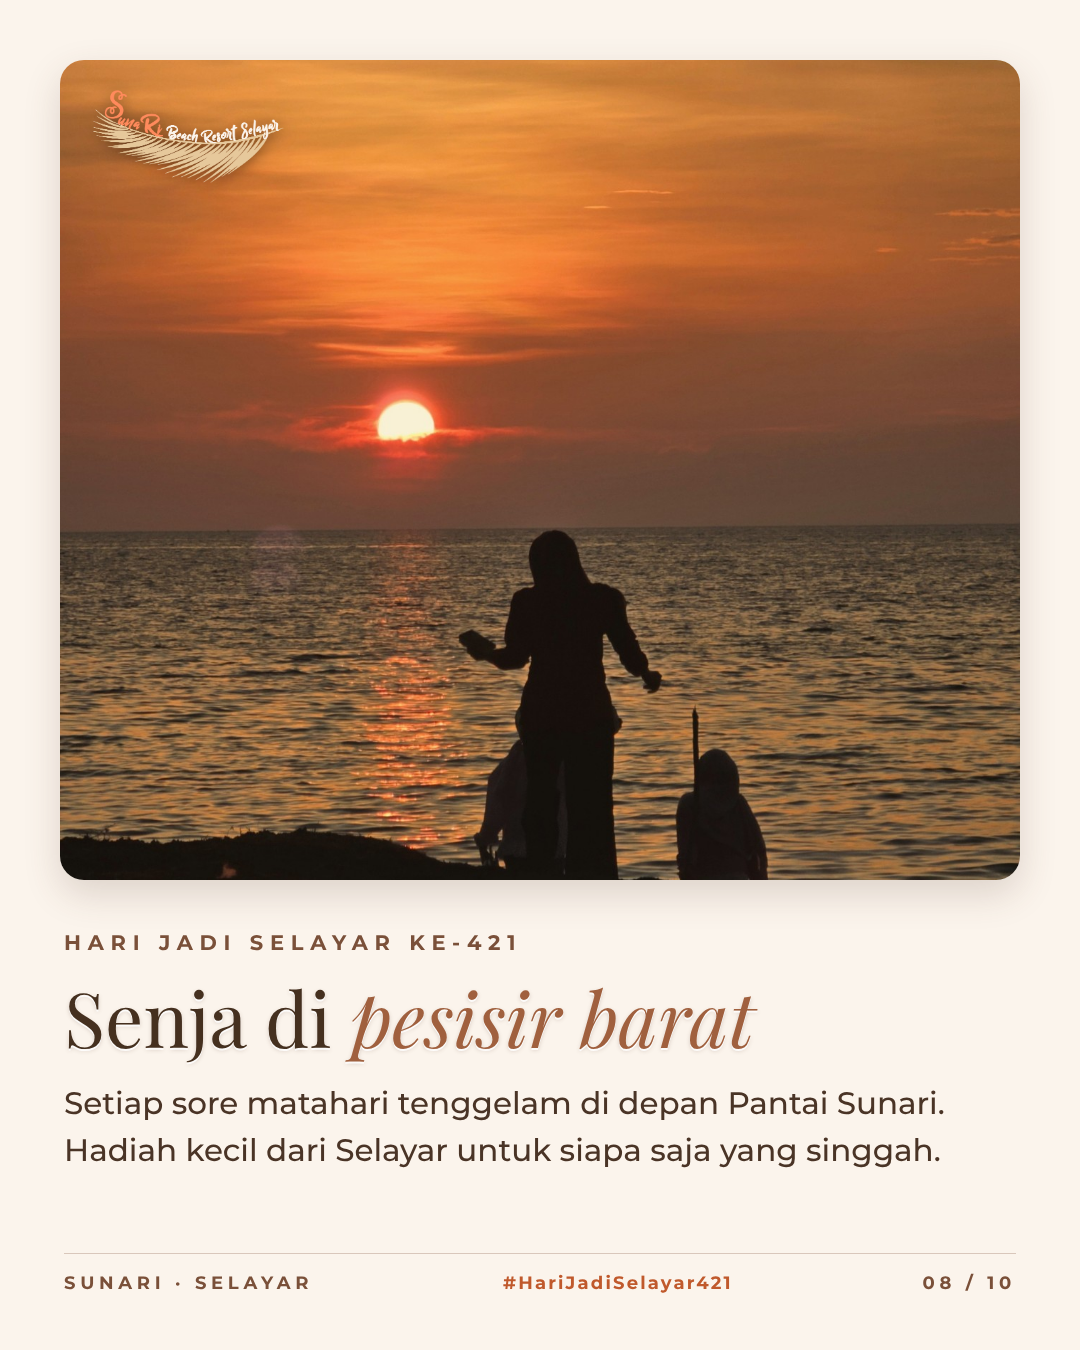
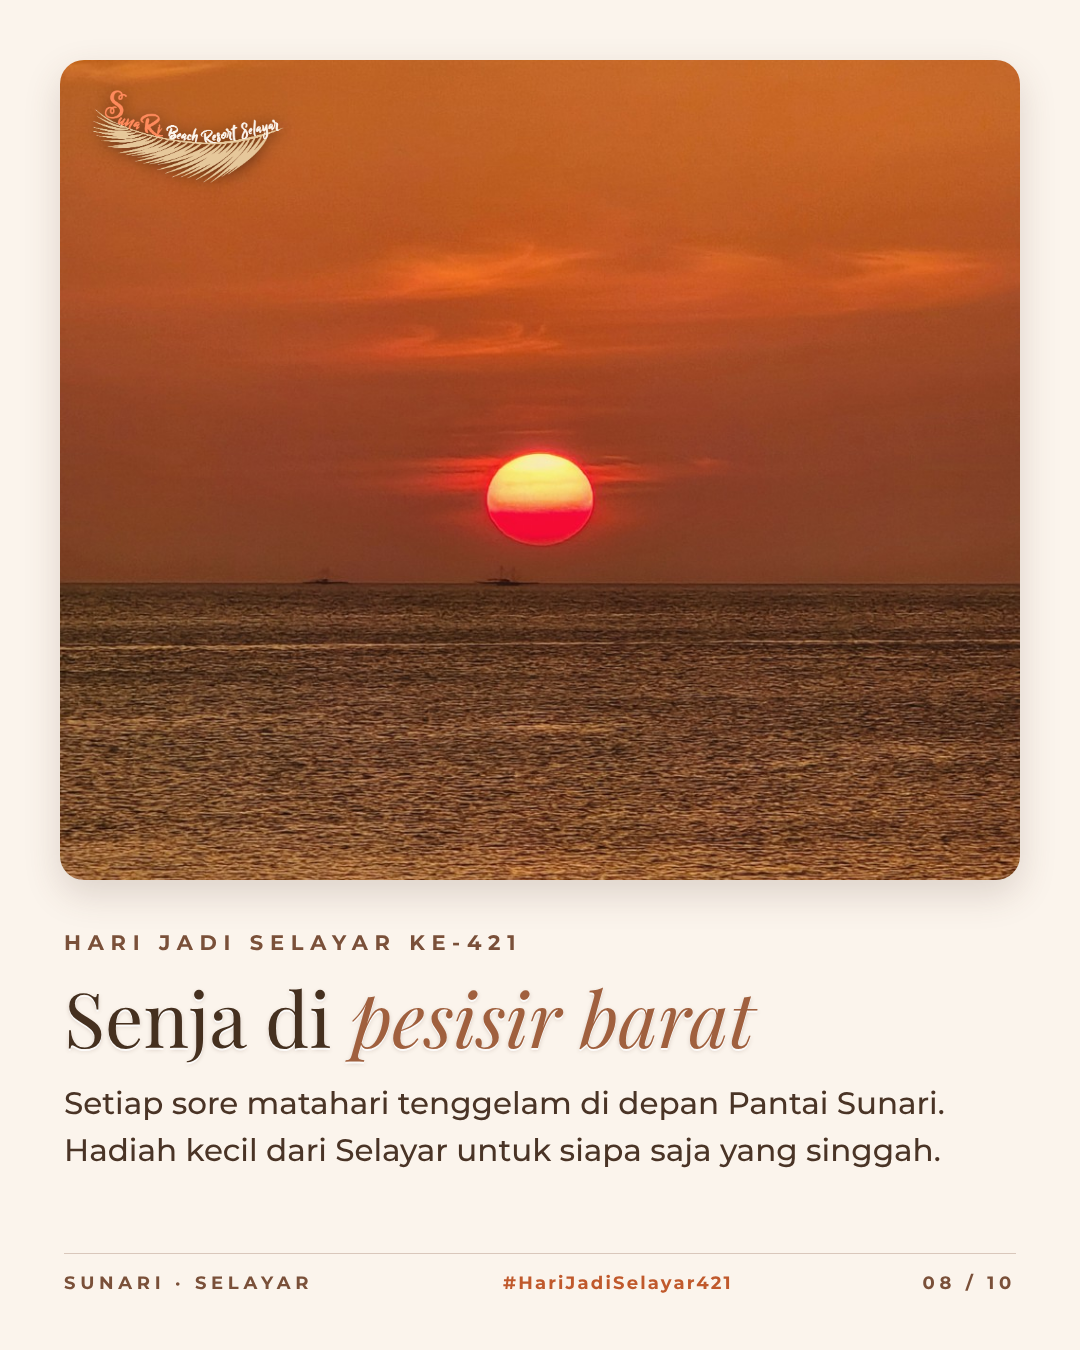
Feed Hari Jadi Selayar slide 8: foto matahari merah & dua perahu dari pemilik (grading SunaRi)
Claude-Session: https://claude.ai/code/session_01KeLc5eBGUnchV5ne3wvwHX

diff --git a/social/hari_jadi_feed.html b/social/hari_jadi_feed.html
@@ -50,7 +50,7 @@ body{background:#bbb;font-family:Montserrat,sans-serif}
   <div class="kick">Hari Jadi Selayar ke-421</div><div class="ttl emb">Pasir yang <em>muncul</em></div><div class="sub">Saat air surut, gosong pasir putih muncul di tengah laut. Keajaiban kecil dari pasang-surut Selayar.</div>
   <div class="bt"><span>SunaRi · Selayar</span><span class="h">#HariJadiSelayar421</span><span>06 / 10</span></div></div><div class="t" id="hari-jadi-07"><div class="ph"><img src="hari-jadi-selayar-feed/foto/bahuluang__47-dalam-gua-lipang-stalaktit-rombongan.jpg" style="object-position:50% 40%" alt=""><img class="lg" src="../assets/logo-sunari-color-dark.png" alt=""></div>
   <div class="kick">Hari Jadi Selayar ke-421</div><div class="ttl emb">Gua yang <em>dibentuk laut</em></div><div class="sub">Gua Lipang di Pulau Bahuluang: stalaktit menggantung, lantai pasir putih, sejuk di dalam.</div>
-  <div class="bt"><span>SunaRi · Selayar</span><span class="h">#HariJadiSelayar421</span><span>07 / 10</span></div></div><div class="t" id="hari-jadi-08"><div class="ph"><img src="hari-jadi-selayar-feed/foto/senja__21-siluet-tamu-tepi-pantai.jpg" style="object-position:50% 55%" alt=""><img class="lg" src="../assets/logo-sunari-color-dark.png" alt=""></div>
+  <div class="bt"><span>SunaRi · Selayar</span><span class="h">#HariJadiSelayar421</span><span>07 / 10</span></div></div><div class="t" id="hari-jadi-08"><div class="ph"><img src="hari-jadi-selayar-feed/foto/senja__86-matahari-merah-dua-perahu.jpg" style="object-position:50% 53%" alt=""><img class="lg" src="../assets/logo-sunari-color-dark.png" alt=""></div>
   <div class="kick">Hari Jadi Selayar ke-421</div><div class="ttl emb">Senja di <em>pesisir barat</em></div><div class="sub">Setiap sore matahari tenggelam di depan Pantai Sunari. Hadiah kecil dari Selayar untuk siapa saja yang singgah.</div>
   <div class="bt"><span>SunaRi · Selayar</span><span class="h">#HariJadiSelayar421</span><span>08 / 10</span></div></div><div class="t" id="hari-jadi-09"><div class="ph"><img src="hari-jadi-selayar-feed/foto/malam__30-ayunan-kelapa-bintang.jpg" style="object-position:50% 86%" alt=""><img class="lg" src="../assets/logo-sunari-color-dark.png" alt=""></div>
   <div class="kick">Hari Jadi Selayar ke-421</div><div class="ttl emb">Malam yang <em>tenang</em></div><div class="sub">Langit berbintang di antara pohon kelapa. Selayar mengajarkan kita untuk berjalan pelan.</div>

diff --git a/social/build_hari_jadi_feed.py b/social/build_hari_jadi_feed.py
@@ -33,7 +33,7 @@ SL = [
   'Saat air surut, gosong pasir putih muncul di tengah laut. Keajaiban kecil dari pasang-surut Selayar.'),
  (P + "bahuluang__47-dalam-gua-lipang-stalaktit-rombongan.jpg", "50% 40%", 'Gua yang <em>dibentuk laut</em>',
   'Gua Lipang di Pulau Bahuluang: stalaktit menggantung, lantai pasir putih, sejuk di dalam.'),
- (P + "senja__21-siluet-tamu-tepi-pantai.jpg", "50% 55%", 'Senja di <em>pesisir barat</em>',
+ (P + "senja__86-matahari-merah-dua-perahu.jpg", "50% 53%", 'Senja di <em>pesisir barat</em>',
   'Setiap sore matahari tenggelam di depan Pantai Sunari. Hadiah kecil dari Selayar untuk siapa saja yang singgah.'),
  (P + "malam__30-ayunan-kelapa-bintang.jpg", "50% 86%", 'Malam yang <em>tenang</em>',
   'Langit berbintang di antara pohon kelapa. Selayar mengajarkan kita untuk berjalan pelan.'),

diff --git a/assets/photos/KATALOG_FOTO.md b/assets/photos/KATALOG_FOTO.md
@@ -94,6 +94,7 @@ Tidak disimpan: foto resto dengan wajah tamu terlihat, foto kaus bergambar wajah
 | `senja/84-afterglow-gazebo-lampu-tamu.jpg` | Afterglow biru-jingga-merah muda, gazebo bambu berlampu & ayunan, lampu gantung, tamu bersantai di tepi pantai | 👤 ada anak kecil & beberapa wajah samar: pakai ukuran kecil/crop, atau dengan izin |
 | `senja/85-siluet-tirai-senja-persegi.jpg` | Siluet tamu dengan minuman di meja, tirai & daun ketapang, matahari & jalur cahaya di laut (1:1) | ✅ (siluet) | Story ucapan Hari Jadi Selayar ke-421, feed senja |
 | `senja/85-siluet-tirai-senja-persegi-lurus.jpg` | Versi no. 85 dengan cakrawala diluruskan (±1,5°), sedikit di-crop | ✅ (siluet) | **Dipakai: story Hari Jadi Selayar ke-421** |
+| `senja/86-matahari-merah-dua-perahu.jpg` | Matahari merah di atas cakrawala, dua perahu kecil, laut keemasan, 9:16 (dari pemilik, 27 Nov 2026) | ✅ (tanpa orang) | **Dipakai: feed Hari Jadi Selayar slide 8**, story/feed senja |
 
 Pasangan mirip (60/61, 66/67): pakai salah satu dalam satu seri, atau beda crop.
 
